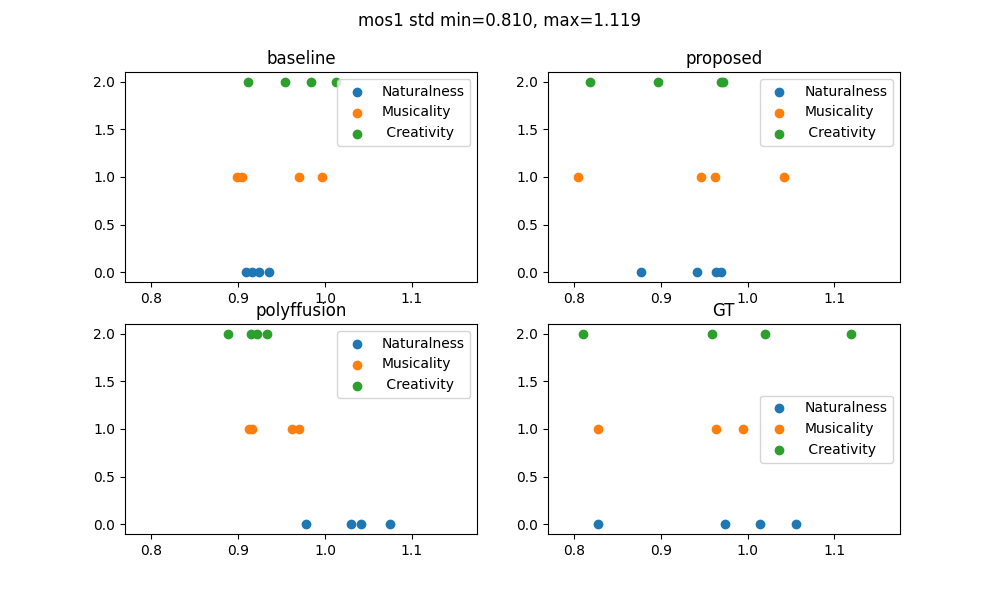
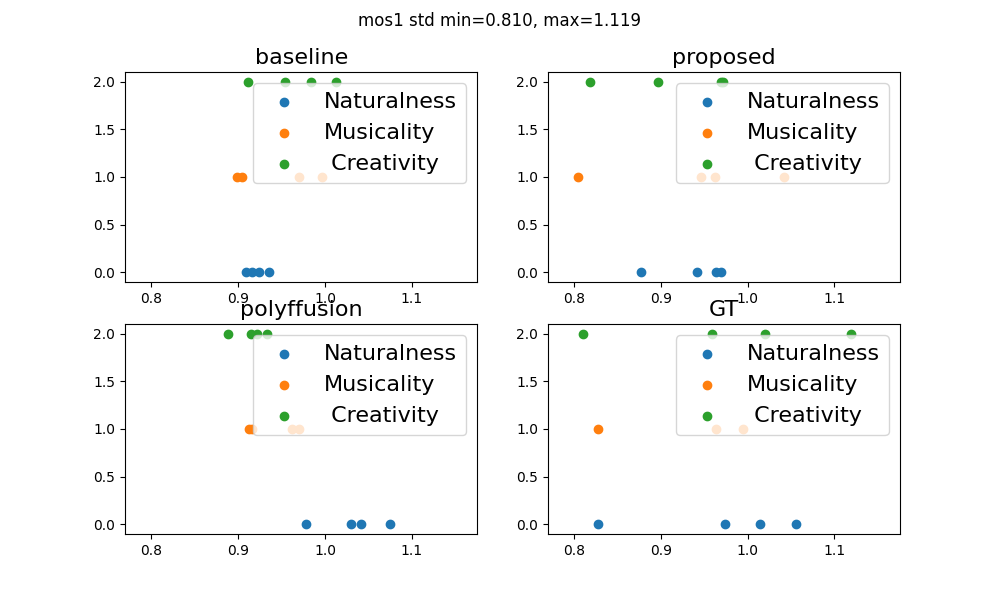
フォントサイズ調整

diff --git a/results/analysis.py b/results/analysis.py
@@ -21,6 +21,7 @@ QUESTION_NAMES = {
     "mos1": ["Naturalness", "Musicality", " Creativity"],
     "mos2": ["Naturalness", "Musicality", "Boundary Clarity", "Phase Similarity"],
 }
+FONT_SIZE = 16
 
 
 def graph(grouped_values, filename, type_="mos1"):
@@ -74,10 +75,10 @@ def graph(grouped_values, filename, type_="mos1"):
                 np.ones_like(std[:, j]) * j,
                 label=QUESTION_NAMES[type_][j],
             )
-        ax.set_title(SYSTEM_NAMES[key])
+        ax.set_title(SYSTEM_NAMES[key], fontsize=FONT_SIZE)
         tmp_max.append(np.max(std[:, j]))
         tmp_min.append(np.min(std[:, j]))
-        ax.legend()
+        ax.legend(fontsize=FONT_SIZE)
     for ax in axes.flatten():
         ax.set_xlim(min(tmp_min) * 0.95, max(tmp_max) * 1.05)
     fig.suptitle(f"{type_} std min={min(tmp_min):.3f}, max={max(tmp_max):.3f}")
@@ -101,11 +102,13 @@ def graph(grouped_values, filename, type_="mos1"):
         )
 
     # ラベルとタイトルを設定
+    ax.tick_params(labelsize=FONT_SIZE)
+    ax.set_yticks([i for i in range(0, 6)])
     ax.set_xticks(x + width * (num_items - 1) / 2)
     ax.set_xticklabels(
-        SYSTEM_NAMES[key] for key in grouped_values.keys()
+        [SYSTEM_NAMES[key] for key in grouped_values.keys()], fontsize=FONT_SIZE
     )  # keys（AB, CD, EFなど）
-    ax.legend()
+    ax.legend(fontsize=FONT_SIZE)
 
     # グラフの表示
     plt.savefig(filename)
